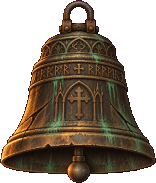
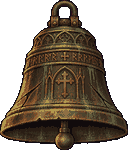
기믹 소품 픽셀화(색 줄이기·외곽선·크기 조정)
Claude-Session: https://claude.ai/code/session_01KAe6Yh4AK4EFG9UVm4TpTC

diff --git a/js/fxmap.js b/js/fxmap.js
@@ -81,7 +81,7 @@ export class FxDirector {
       for (const o of w.props) {
         if (o.kind === 'campfire') { R.fx.spawn('fire/campfire', o.x, 300, { light: 0.5 }); for (const d of [-110, 110]) R.bgfx.spawn('fire/candle', o.x + d, 300, { light: 0.3 }); }
         if (o.kind === 'merchant') { R.bgfx.spawn('fire/brazier', o.x + 90, 300, { light: 0.35 }); R.bgfx.spawn('fire/candle', o.x - 100, 300, { light: 0.3 }); }
-        if (o.kind === 'altar') { R.fx.spawn('fire/brazier', o.x, 246, { light: 0.55 }); for (const d of [-70, 70]) R.bgfx.spawn('fire/candle', o.x + d, 300, { light: 0.3 }); }
+        if (o.kind === 'altar') { R.fx.spawn('fire/brazier', o.x, 250, { light: 0.55 }); for (const d of [-70, 70]) R.bgfx.spawn('fire/candle', o.x + d, 300, { light: 0.3 }); }
       }
     }
     R.trans.clear(); if (!boss) R.iris(w, 'open');   // 방 입장: 리라를 중심으로 아이리스가 열림 (보스방은 등장 연출이 대신)
@@ -185,7 +185,7 @@ export class FxDirector {
       case 'veilUp': { const b = w.enemies.find(e => e.boss); if (b) R.fx.spawn('holy/divine-shield', 0, 0, { follow: b, dy: b.h / 2, key: 'veil', light: 0.35, palette: CYAN }); break; }
       case 'veilBreak': R.fx.stopKey('veil'); this.spell('water/wave-crash', ev.x, ev.y + 40, { life: 70, light: 0.5 }); this.spell('impacts/crit-hit', ev.x, ev.y + 20, { life: 50, light: 0.5 }); break;
       case 'mirrorReflect': this.spell('ice/snowflake-burst', ev.x, ev.y, { life: 50, light: 0.5 }); this.spell('impacts/hit-spark', ev.x, ev.y + 16, { height: 16, palette: CYAN, life: 30, light: 0.5 }); this.spell('lightning/zap-hit', ev.bx, ev.by, { life: 40, light: 0.5 }); break;
-      case 'beaconLit': R.fx.spawn('fire/brazier', ev.x, 246, { light: 0.55, key: 'beacon' + ev.x }); this.spell('impacts/hit-spark', ev.x, 246, { height: 10, palette: AMBER, life: 30, light: 0.5 }); break;
+      case 'beaconLit': R.fx.spawn('fire/brazier', ev.x, 250, { light: 0.55, key: 'beacon' + ev.x }); this.spell('impacts/hit-spark', ev.x, 250, { height: 10, palette: AMBER, life: 30, light: 0.5 }); break;
       case 'beaconOut': R.fx.stopKey('beacon' + ev.x); break;
       case 'exposed': P('impacts/hit-spark', ev.x, ev.y + 30, { height: 20, palette: GOLD, life: 30, light: 0.4 }, 2); break;
       case 'land': if (ev.v > 7) P('impacts/heavy-landing', ev.x, ev.y, { palette: DUST, life: 40, light: 0.2 }, 1); break;

diff --git a/js/render.js b/js/render.js
@@ -455,7 +455,7 @@ export class Renderer {
     } else if (o.kind === 'beacon' && this.img('beacon')) {               // 빛의 등대: 돌 받침 + 쇠 그릇 (켜지면 불꽃은 fxmap)
       const im = this.img('beacon'), x = Math.round(o.x - im.naturalWidth / 2);
       g.drawImage(im, x, 300 - im.naturalHeight);
-      if (o.litT <= 0) { const pulse = 0.5 + 0.5 * Math.sin(w.t * 0.12); g.fillStyle = `rgba(255,179,71,${0.25 + 0.4 * pulse})`; g.fillRect(Math.round(o.x) - 2, 244, 4, 3); }
+      if (o.litT <= 0) { const pulse = 0.5 + 0.5 * Math.sin(w.t * 0.12); g.fillStyle = `rgba(255,179,71,${0.25 + 0.4 * pulse})`; g.fillRect(Math.round(o.x) - 2, 248, 4, 3); }
     }
   }
   // 대종 (보스 위에 그림): 천장에 매달림 → 떨어짐(바닥에 붉은 그림자 예고) → 가둠 → 다시 올라감
@@ -465,7 +465,7 @@ export class Renderer {
     const G = { dropF: 40, riseF: 50 }, top = 8, ground = 300 - im.naturalHeight + 4;
     let y = top;
     if (bell.st === 'drop') { const k = bell.t / G.dropF; y = top + (ground - top) * Math.max(0, (k - 0.55) / 0.45) ** 2;
-      const a = 0.25 + 0.5 * k; g.fillStyle = `rgba(255,79,94,${a * 0.35})`; g.fillRect(bell.x - 78, 296, 156, 4); g.strokeStyle = `rgba(255,79,94,${a})`; g.strokeRect(bell.x - 78 + 0.5, 294.5, 156, 6); }   // 떨어질 자리
+      const a = 0.25 + 0.5 * k; g.fillStyle = `rgba(255,79,94,${a * 0.35})`; g.fillRect(bell.x - 66, 296, 132, 4); g.strokeStyle = `rgba(255,79,94,${a})`; g.strokeRect(bell.x - 66 + 0.5, 294.5, 132, 6); }   // 떨어질 자리
     else if (bell.st === 'down') y = ground;
     else if (bell.st === 'rise') y = ground + (top - ground) * Math.min(1, bell.t / G.riseF);
     const yy = Math.round(y + (bell.st === 'up' ? Math.sin(w.t * 0.03) * 2 : 0));

diff --git a/js/core/gimmick.js b/js/core/gimmick.js
@@ -6,9 +6,9 @@
 import { overlap } from './player.js';
 
 export const GIMMICK = {
-  bell:   { rope: [380, 740], x: 560, half: 78, dropF: 40, trapF: 240, riseF: 50, cd: 600, dmg: 80 },
+  bell:   { rope: [380, 740], x: 560, half: 66, dropF: 40, trapF: 240, riseF: 50, cd: 600, dmg: 80 },
   veil:   { firstF: 300, cd: 900, mul: 0.25, breakDmg: 60, breakPoise: 0.7 },
-  mirror: { xs: [300, 640], h: 96, cd: 900, dmg: 70, poise: 0.5 },
+  mirror: { xs: [300, 640], h: 84, cd: 900, dmg: 70, poise: 0.5 },
   light:  { xs: [180, 560, 940], r: 140, litF: 720, inMul: 1.5, outMul: 0.5 },
 };
 export const GIMMICK_OF = { bellBoss: 'bell', saint: 'veil', spider: 'mirror', shadow: 'light' };
